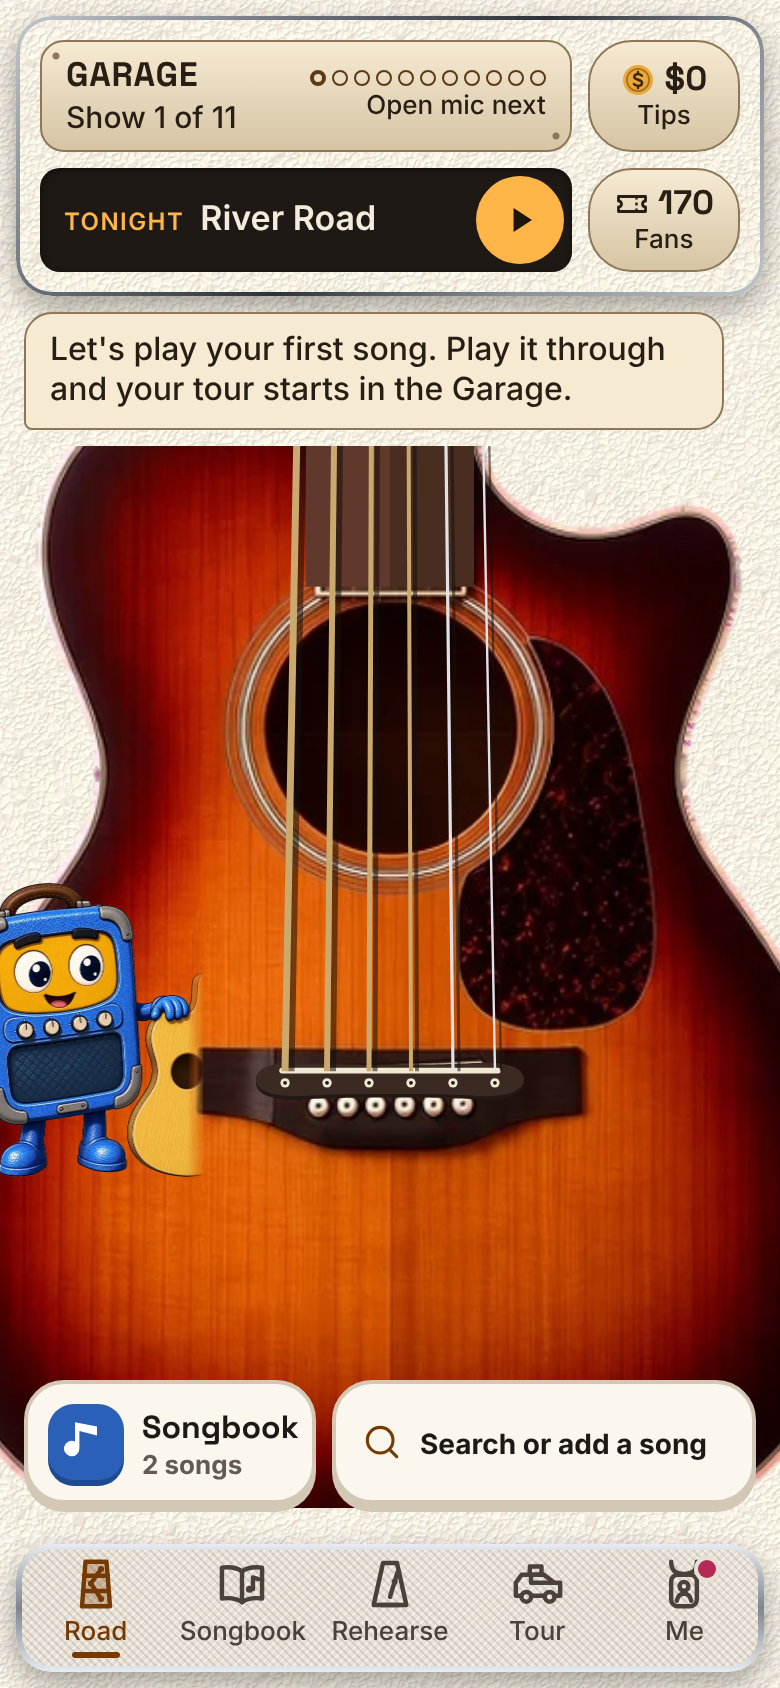
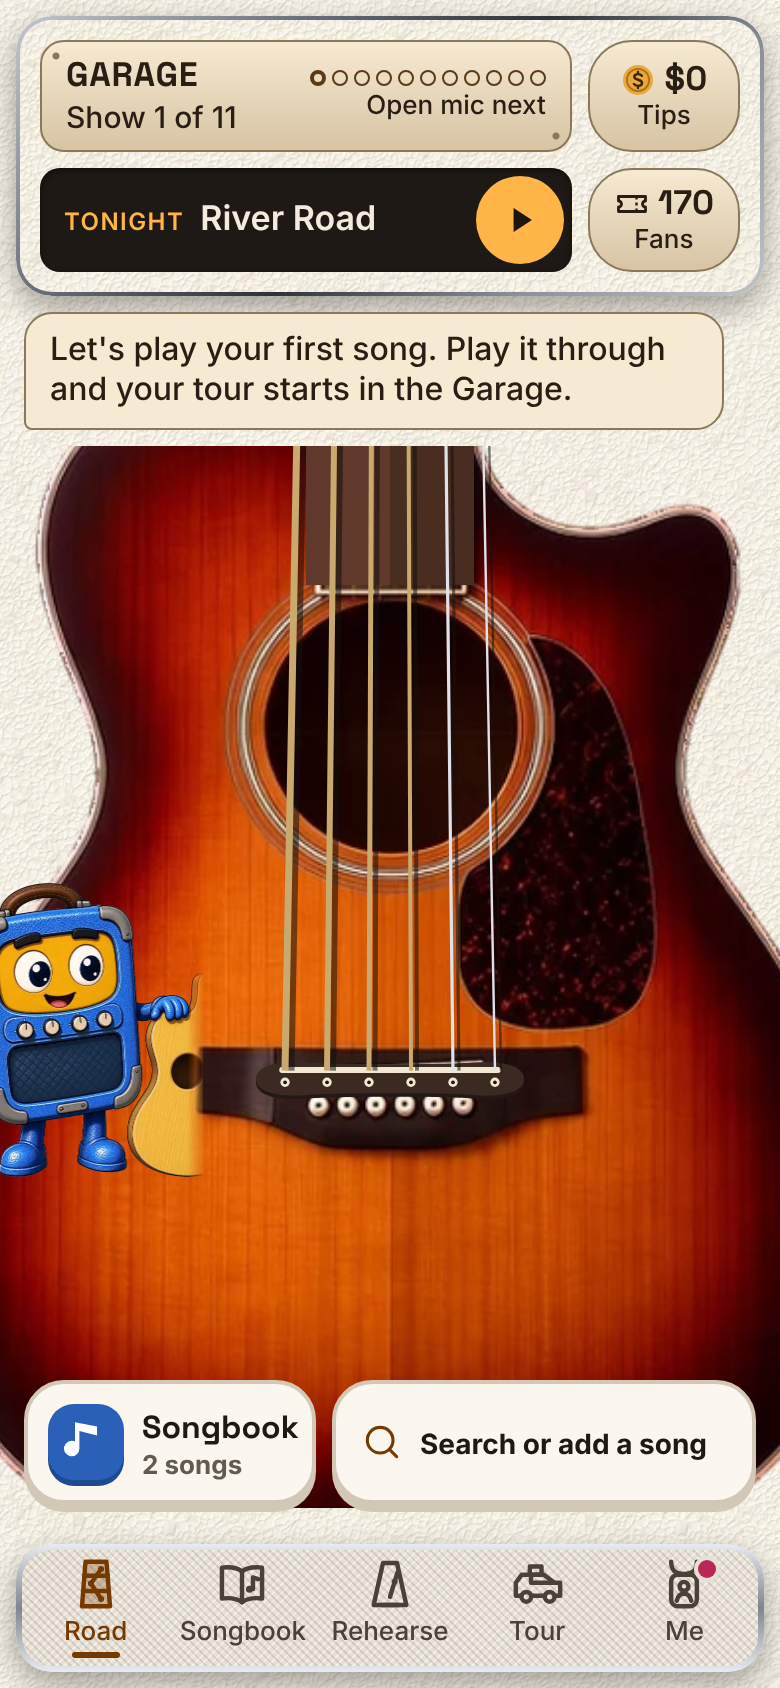
Road Ready: lighter cream tolex without blown highlights, new screenshots
The cream tile is Grok's grain lifted by an offset with a soft shoulder near white (0.8 percent pure white, was 7.2). Retaken screenshots and a 2x2 repeat of the tile. Plan notes updated.

Claude-Session: https://claude.ai/code/session_01JnUP7zfwzBFKGGwEQqVPqT

diff --git a/docs/ROAD-READY-PLAN.md b/docs/ROAD-READY-PLAN.md
@@ -153,7 +153,7 @@ Found in the review of step 04 (2026-11-18, a separate conversation, Claude Opus
 
 Found while making the design fixes from Grok's review (2026-11-18, branch `rr-05-design-fixes`, Claude Sonnet 5.5).
 
-74. **There is no 512 px tolex bitmap tile in the repo** (design review item 7). Spec 5.1 names `tolex-dark`, but only the code-drawn tolex exists. Not built. Grok supplies the tile; then `--tolex` swaps to it. The soft amber glow behind the neck in the dark look is done. **Done (rr-05-wire):** Grok's tiles (PR #92) are in `art/surfaces/`, shown at 256 px under the same 45 percent wash in dark. Grok's originals are kept in `docs/road-ready/assets-grok/`; the app's tiles are the same grain with each colour channel scaled so the page average stays the base colour (#141210 dark, #F6EFE2 light), which the colour test checks.
+74. **There is no 512 px tolex bitmap tile in the repo** (design review item 7). Spec 5.1 names `tolex-dark`, but only the code-drawn tolex exists. Not built. Grok supplies the tile; then `--tolex` swaps to it. The soft amber glow behind the neck in the dark look is done. **Done (rr-05-wire):** Grok's tiles (PR #92) are in `art/surfaces/`, shown at 256 px under the same 45 percent wash in dark. Grok's originals are kept in `docs/road-ready/assets-grok/`; the dark tile is the same grain with each colour channel scaled so the page average stays the base colour (#141210). The cream tile is Grok's grain lifted by an offset with a soft shoulder near white, so under 1 percent of its values are pure white (channel scaling had made it 7 percent); it is a little darker than the base (average 242, 237, 225 against #F6EFE2), inside the colour test's 5.
 75. **There is no rendered sunburst guitar body in the repo** (item 8). The Road bodies are the flat pictures in `art/guitars/`; r10-01's photographic cutaway is not among them. The body art and raising the neck are not done; they wait for the art. **Done (rr-05-wire):** Grok's sunburst cutaway (`cutaway-sunburst`, source in `docs/guitars/pics/`) is processed by `tools/guitars/pics.py` (close-up 800, bridge .49) and replaces the plain cutaway on the switch leg and in the guitarist's hands. The old `cutaway` files stay in the repo, unused. Raising the neck was not changed: the sunburst body sits at the same size as the other bodies and the neck already joins it. The picture's baked bridge and soundhole are kept; the app draws frets and strings over the bare neck.
 76. **Louie's line is cut to two lines at large text**, which bends the "nothing truncates" rule for that one line (Graham's review asked for it to be shortened). The whole line stays in the page for a screen reader. At large text the header and line take about 51 percent of the screen (they took 62).
 77. **Changed tests:** the 03b art test now covers the `listen` mood, the thumb-below-100 rule and the dark picture's 2 percent padding; the Road peek test expects a 156 px box in the dark look (150 px in light). The Opening night "Play each chord" card keeps the happy pose because the show doesn't listen.
@@ -173,4 +173,4 @@ Found while building step 05 (2026-11-18, Claude Opus 5.5).
 88. **Space was already play and pause** (the page's pedal keys, 4.x), so the Gig adds nothing for it: no double handling. Any key shows the controls through the existing wake.
 89. **Large text hides lines with `visibility`,** so nothing moves under the reading line: lines sung step aside, and lines after the next two do too. The test browser can't report an iPhone text size, so the lyric size there stays the fitted one; on a phone 4.51.0's fit already grows with the text size.
 90. **Changed test:** `gig.e2e.mjs` "The Gig (4.1.0 ...)": its 4.58.0 checks measured dimming by alpha. They now measure alpha times contrast with the page, which holds for the earlier looks (alpha) and Road Ready (solid colours); the chords check is per look (85). No other check changed.
-91. **Changed tests:** the Road Ready tolex checks now look for the bitmap tile (`art/surfaces/tolex-*.webp`) instead of the SVG grain; the guitar-pictures test also covers the sunburst files.
+91. **Changed tests:** the Road Ready tolex checks now look for the bitmap tile (`art/surfaces/tolex-*.webp`) instead of the SVG grain; the guitar-pictures test also covers the sunburst files. `pics.py` also takes the magenta trace off the sunburst's outer edge (`defringe`, that picture only).
